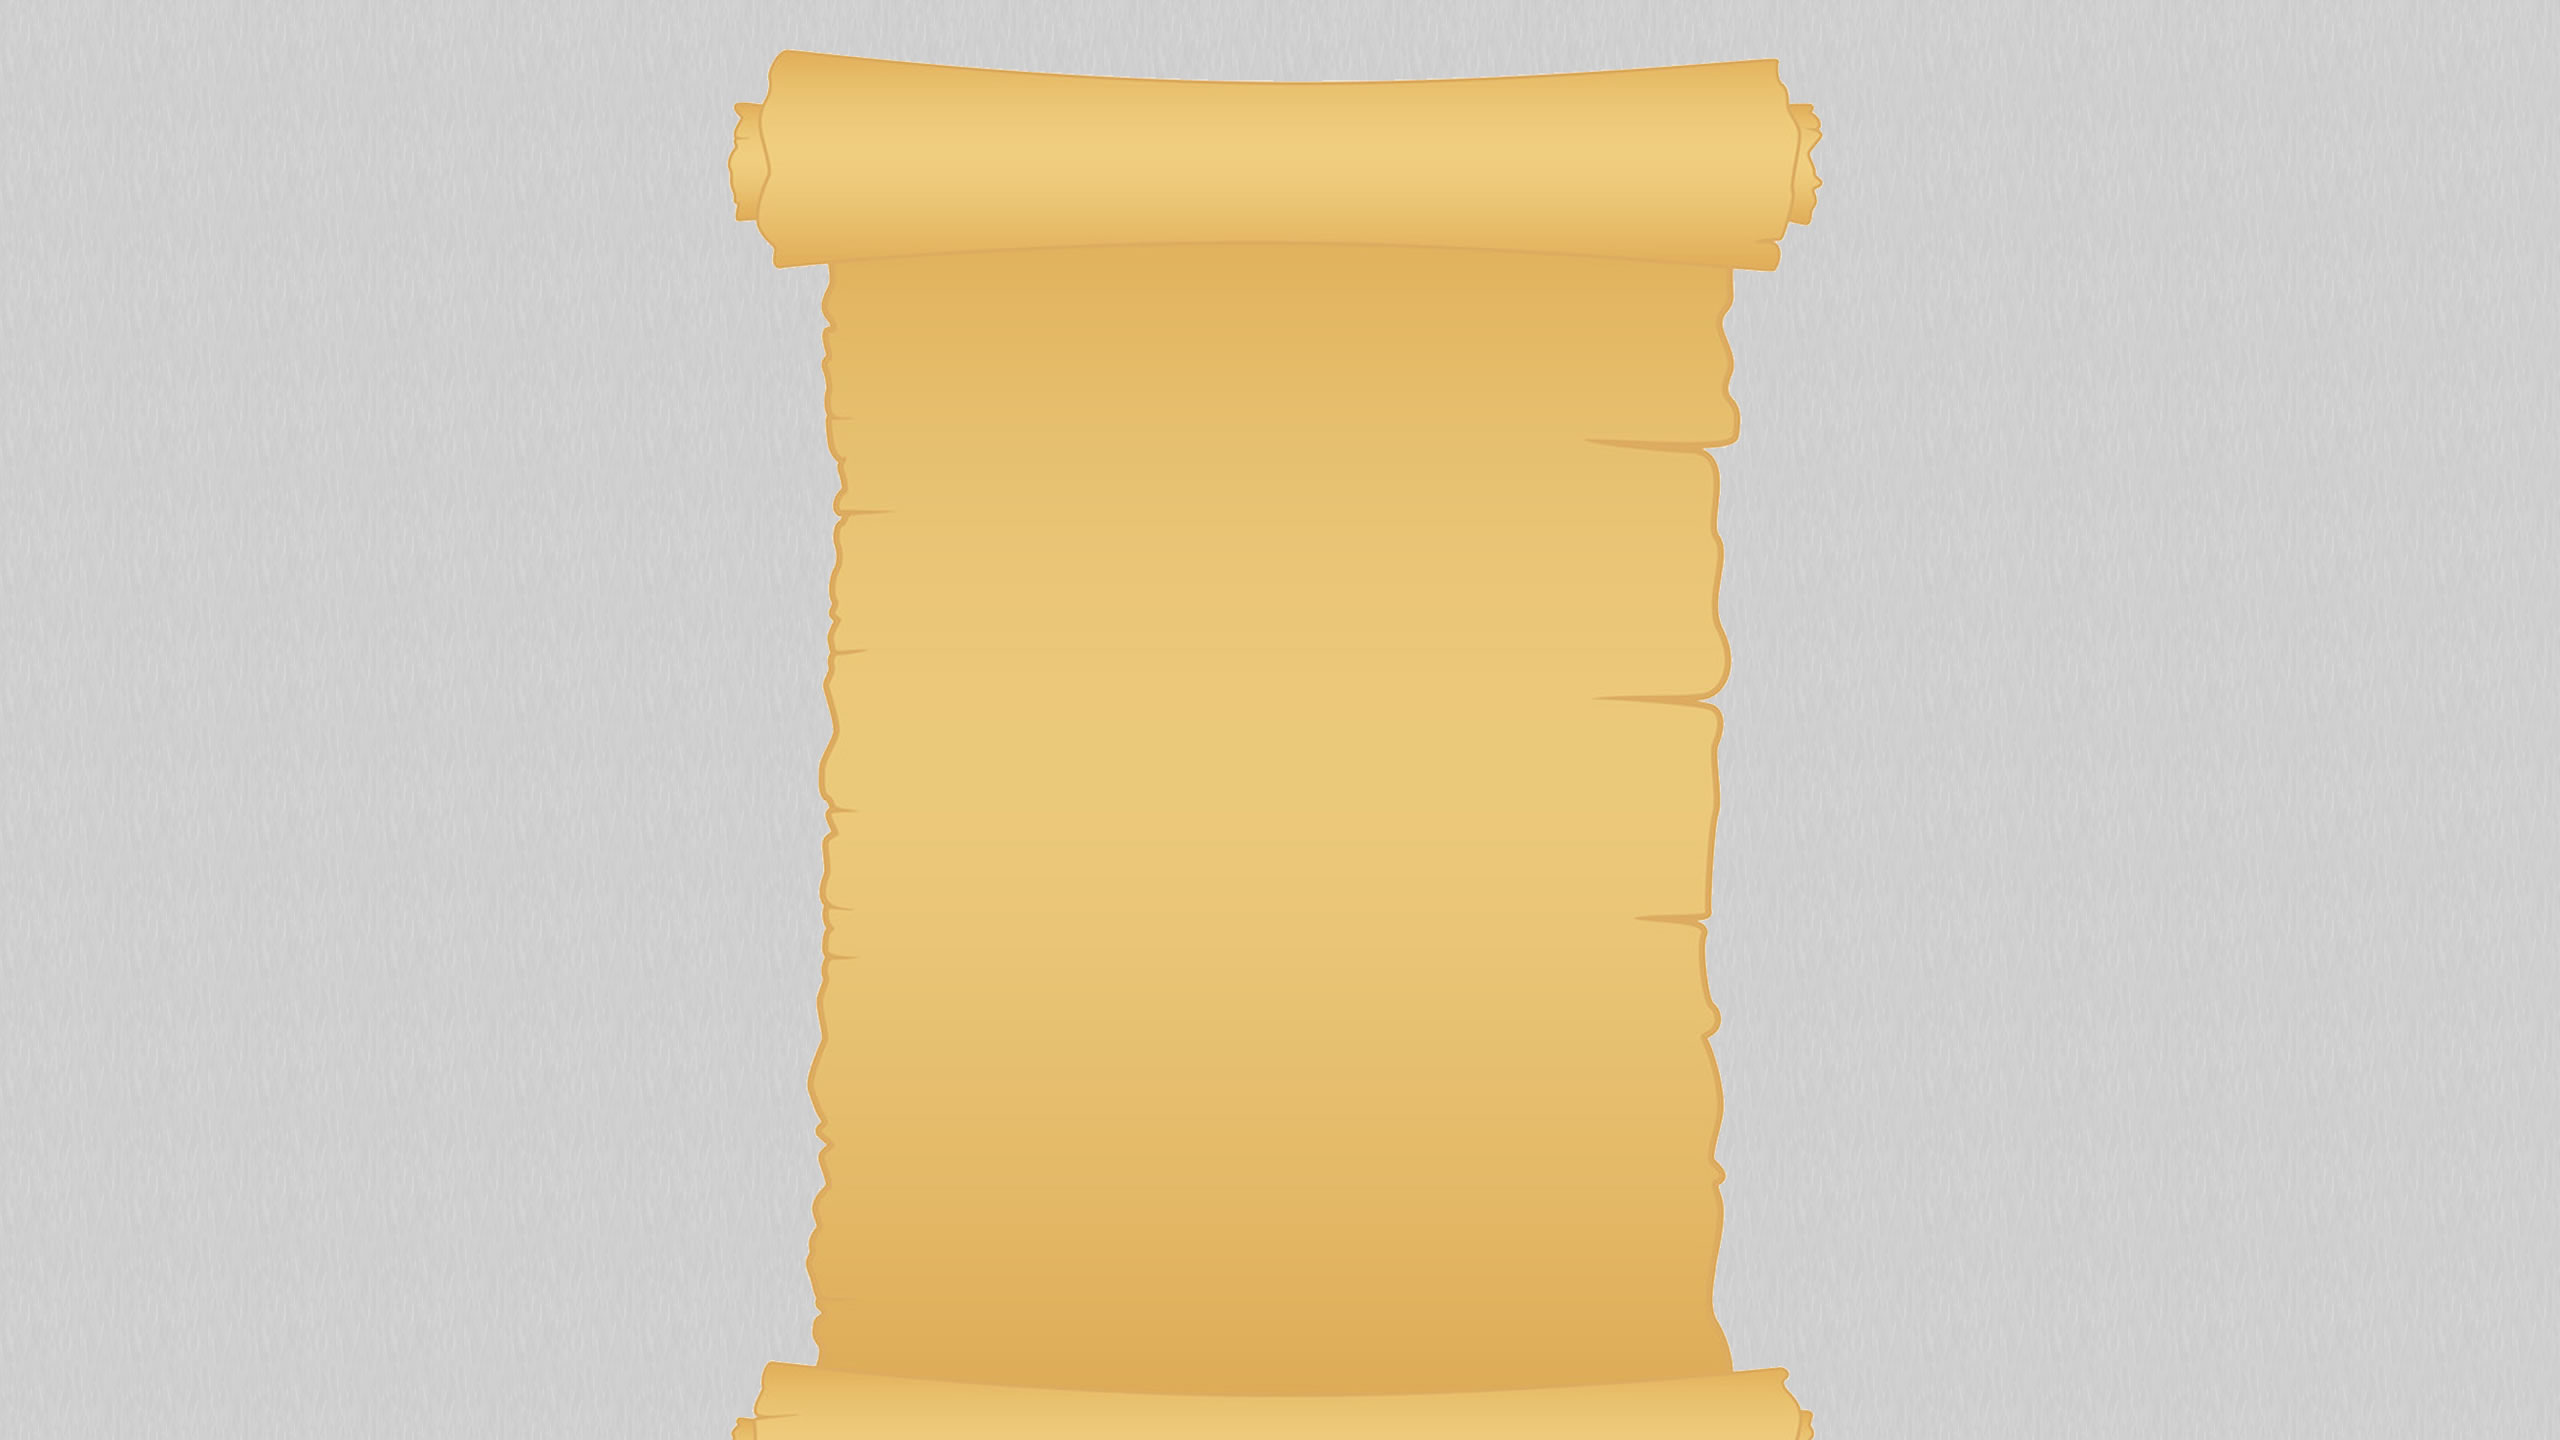
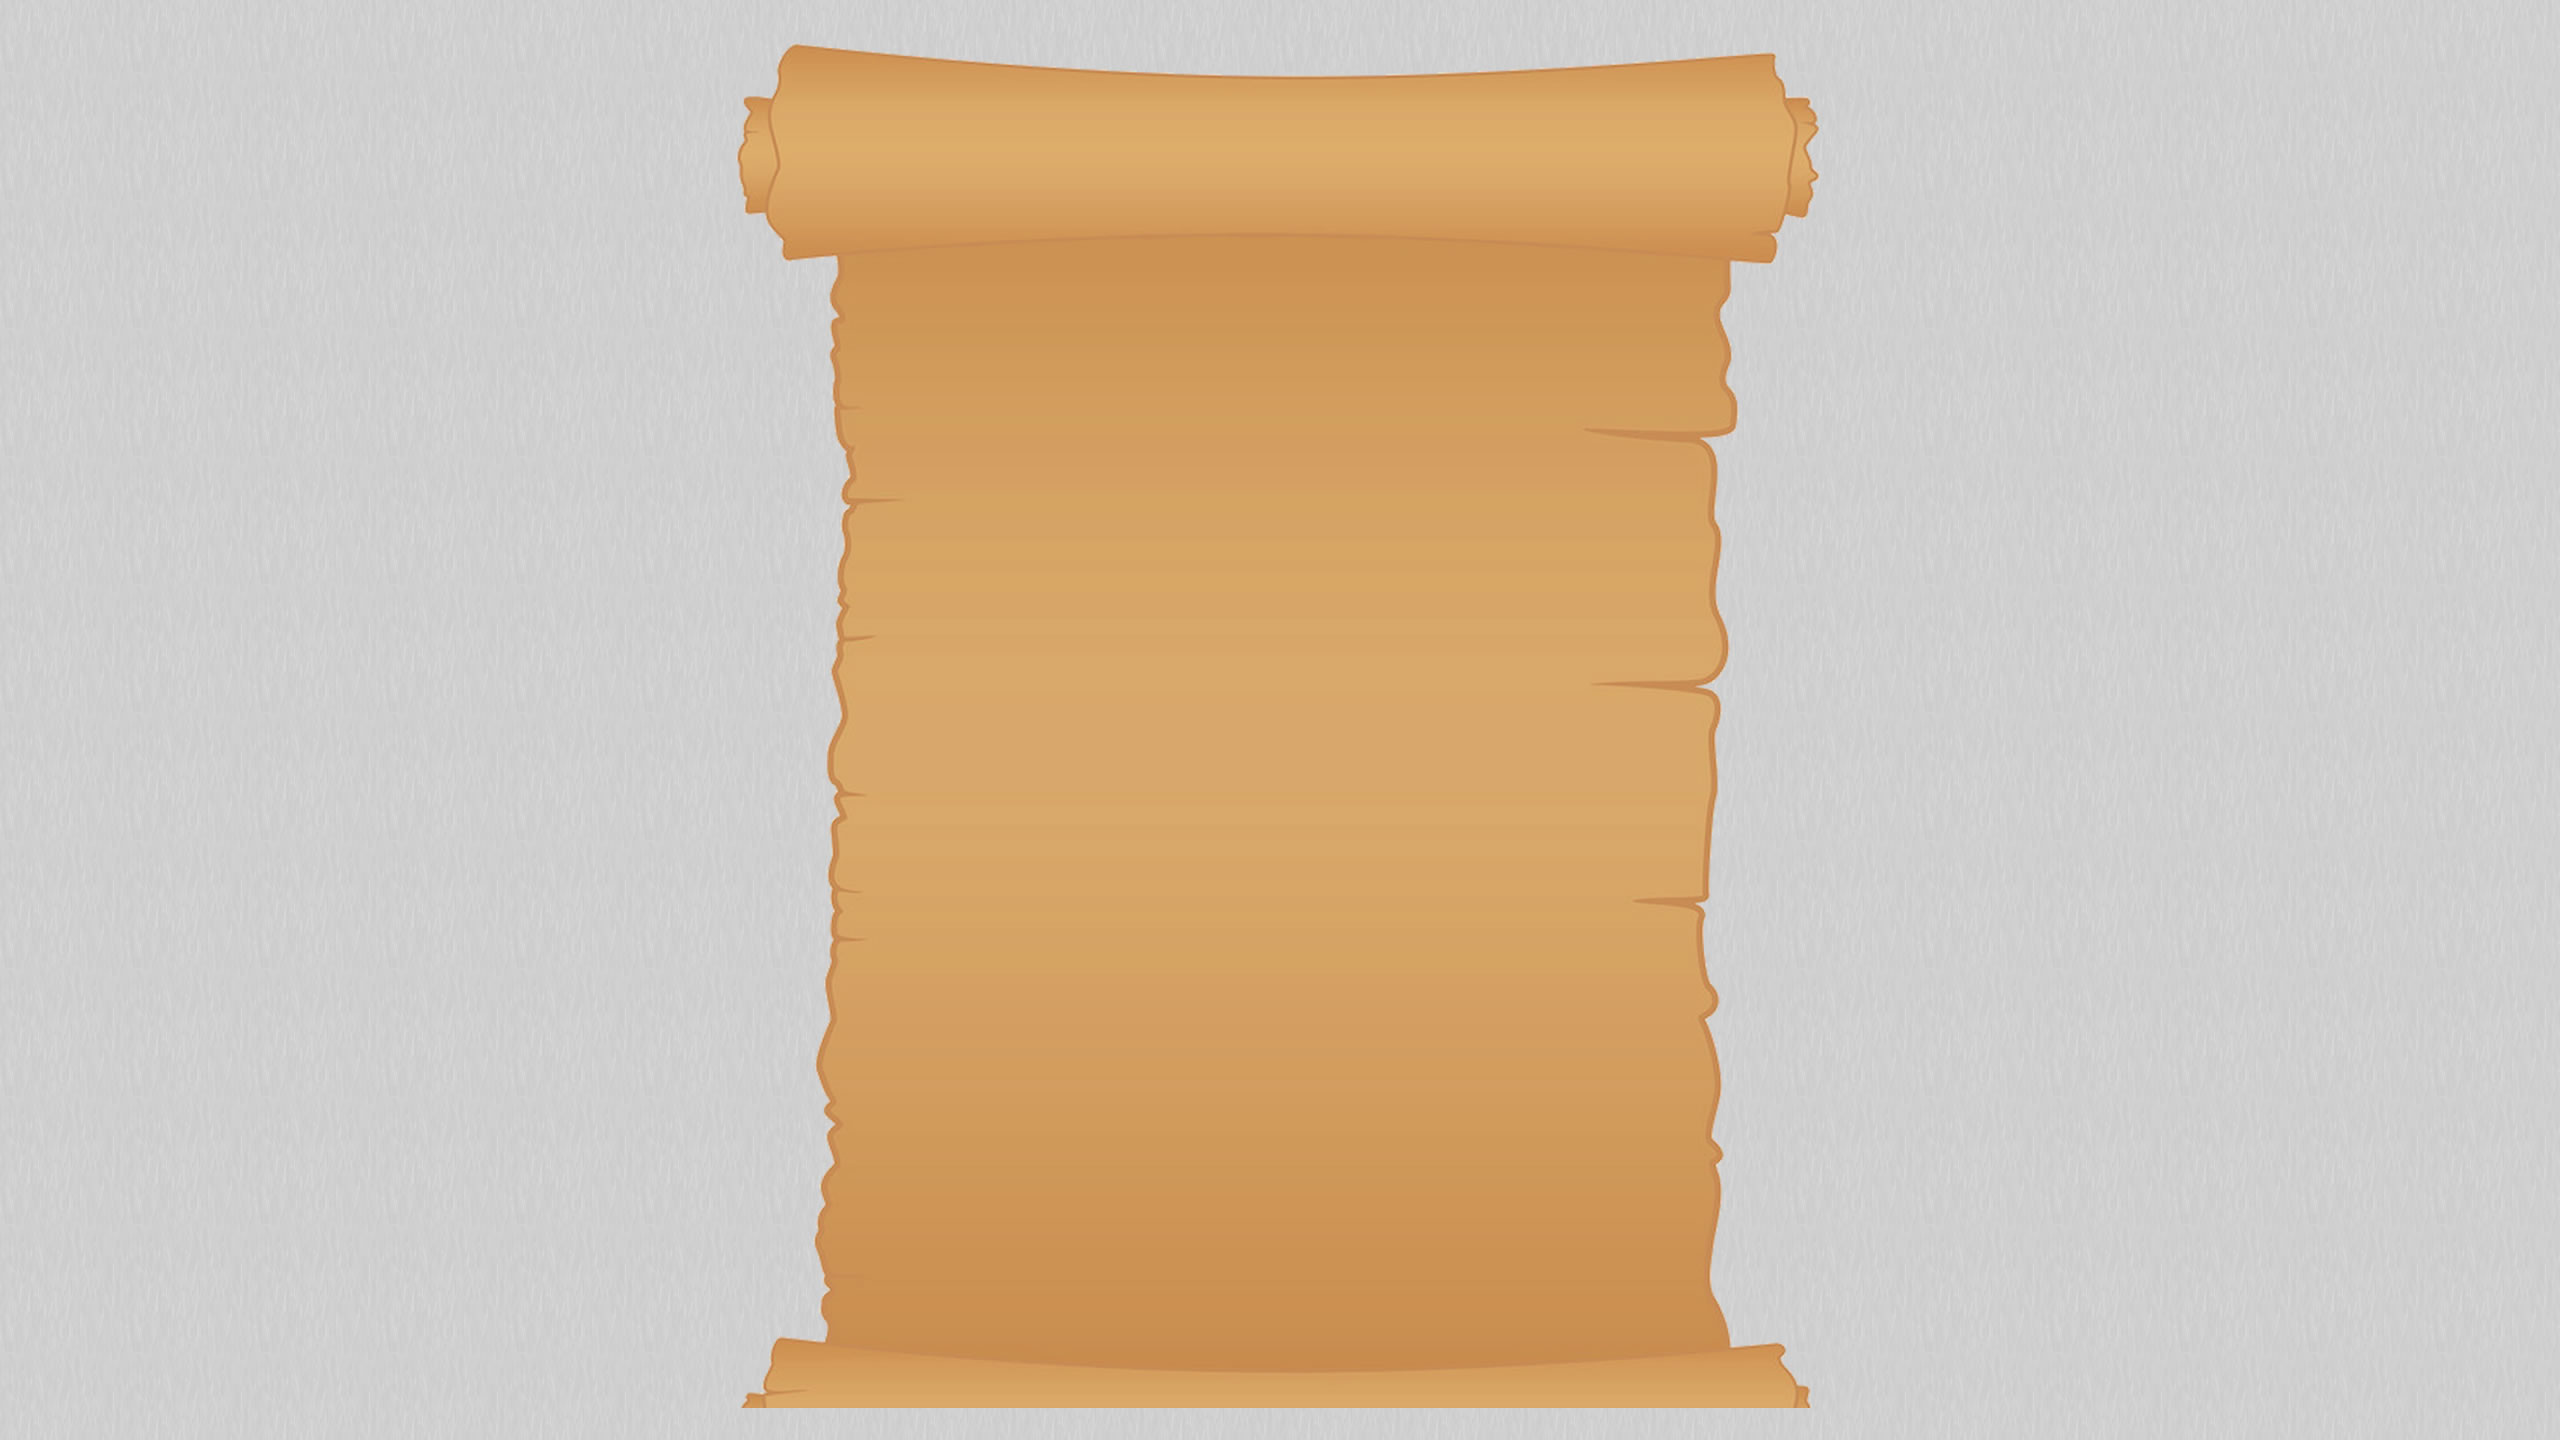
Original colour scheme, darkened wallpaper

diff --git a/css/application.css b/css/application.css
@@ -69,7 +69,7 @@ body {
 	height: 600px;
 	background: url(../images/scroll_middle.jpg) 50% 0 no-repeat;
 	position: relative;
-	color: #0066FF;
+	color: #FFFFFF;
 	border-bottom: 1px solid transparent; /* fix bottom of slide margins in chrome */
 }
 
@@ -138,7 +138,7 @@ h1 {
 
 #firstslide {
 	background: url(../images/scroll_top.jpg) 50% 0 no-repeat;
-	color: #0066FF;
+	color: #FFFFFF;
 	height: 100%;
 	min-height: 700px;
 	position: relative;
@@ -232,7 +232,7 @@ h1 {
 
 #finalslide {
 	background: url(../images/scroll_bottom.jpg) 50% 0 no-repeat;
-	color: #0066FF;
+	color: #FFFFFF;
 	height: 550px;
 	position: relative;
 }
@@ -366,11 +366,11 @@ h1 {
 /* formating link hover colours */
 
 a:link, a:visited {
-	color: #000033;
+	color: #0066FF;
 	text-decoration: none;
 }
 
 a:hover {
-	color: #009999;
+	color: #0099CC;
 	text-decoration: none;
 }
